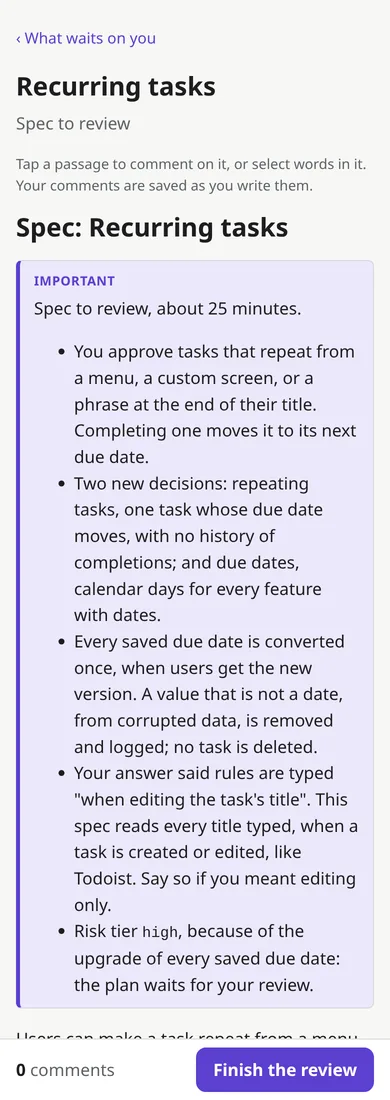
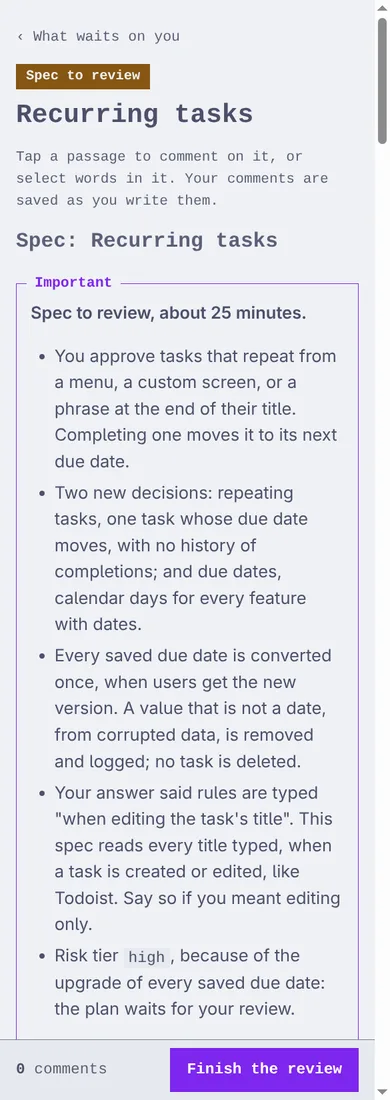
fix(pages-look): a box opens with a capital, lists sit closer
From looking at the pages: a box whose label took "Why it matters:" opened on a lowercase letter, so the style sheet capitalises it on the page only, and a list's indent took a fifth of a phone's width. The README's four page screenshots are taken again, on the sandbox's sample project at 390 px.

Changed region(s): [[0.0, 0.0309, 1.0, 1.0], [0.9538, 0.0, 1.0, 0.1545]]

diff --git a/crates/serve/assets/ura.css b/crates/serve/assets/ura.css
@@ -119,6 +119,13 @@ h4 {
 a {
   color: var(--accent);
 }
+ul,
+ol {
+  padding-left: 1.4em;
+}
+li {
+  margin: 0.3em 0;
+}
 code,
 pre {
   font-family: var(--mono);
@@ -636,6 +643,10 @@ section.q h2 {
   border: 1px solid var(--frame);
   padding: 8px 14px 2px;
   margin: 26px 0 20px;
+}
+/* The label took the sentence's first words: what is left opens with a capital, on the page only. */
+.box > .legend + p::first-letter {
+  text-transform: uppercase;
 }
 .why {
   border-color: var(--orange);
